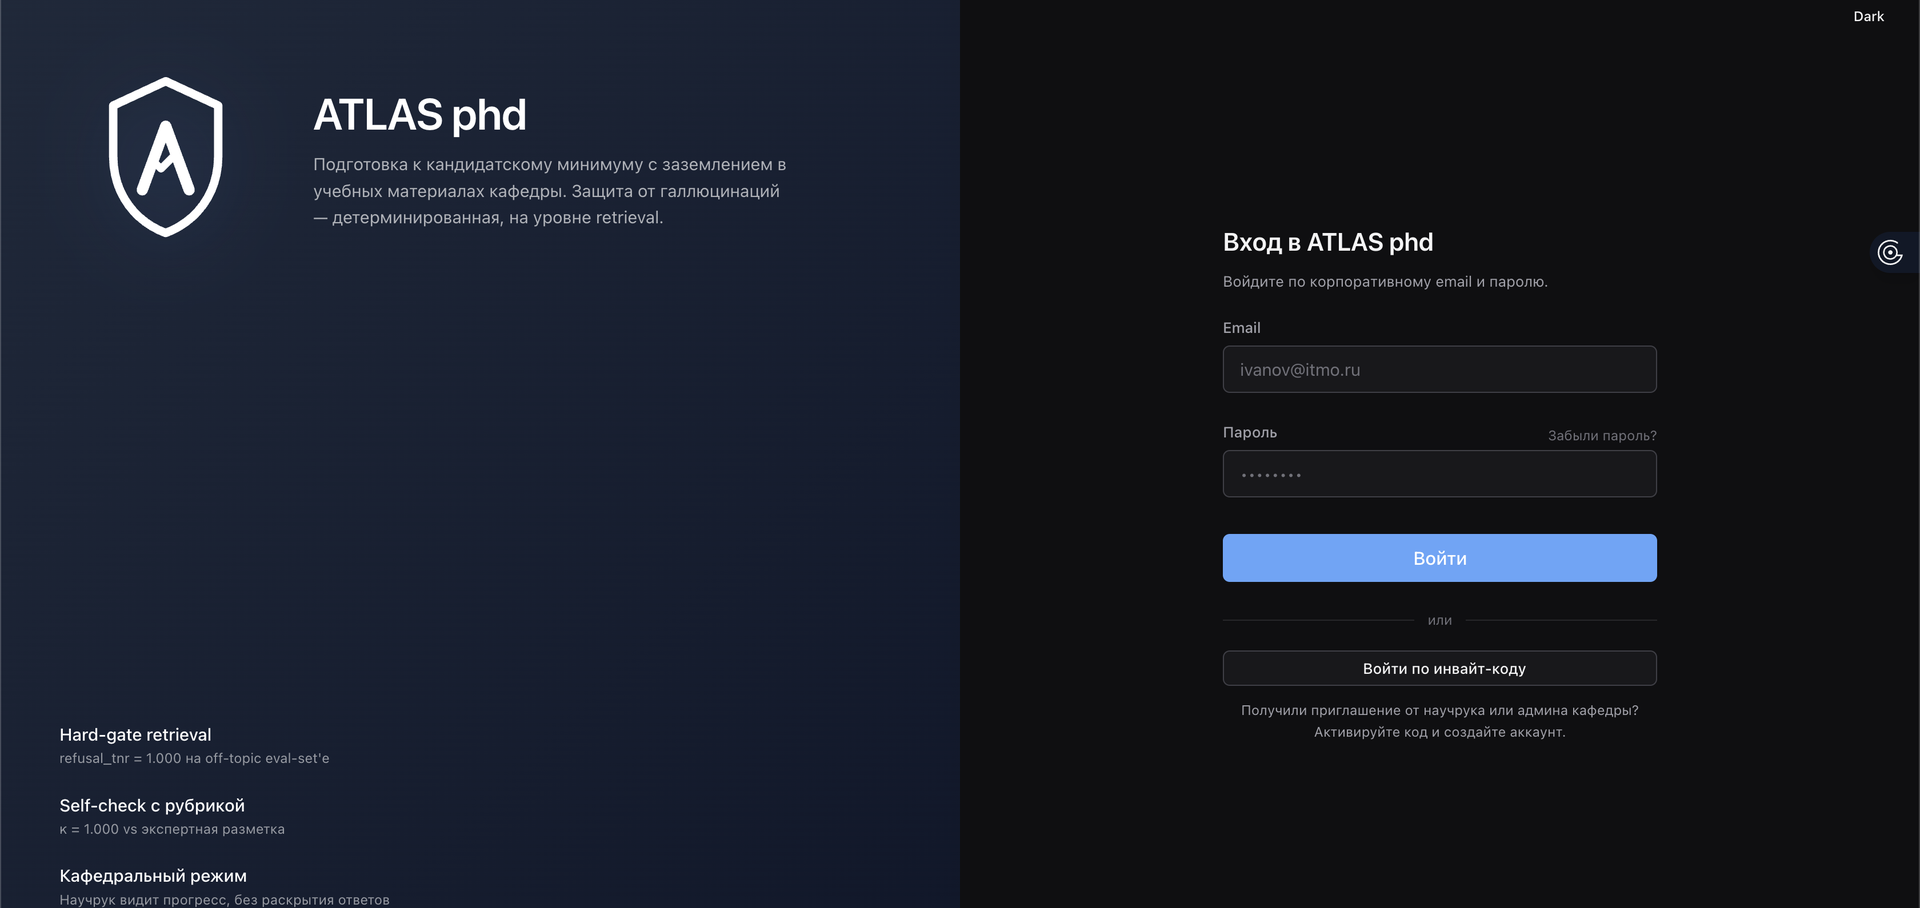
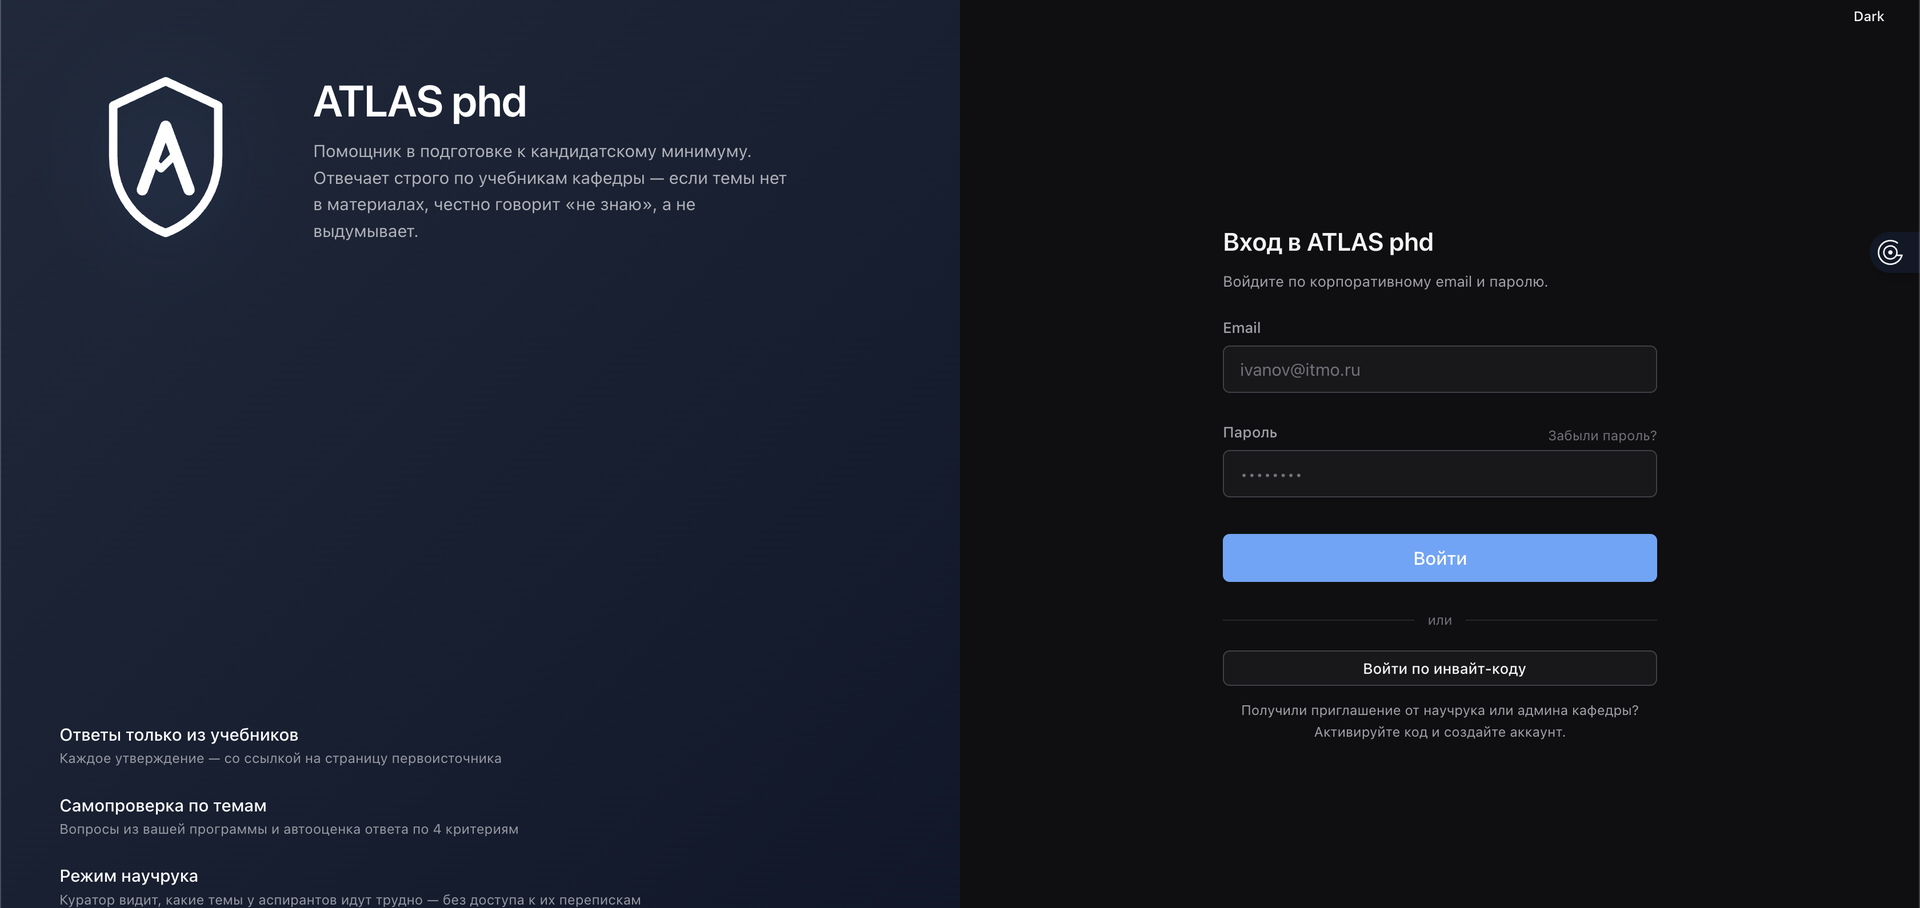
ui: human-readable текст на login + новый Шаг 3 в gallery (старт самопроверки)
Login text — убрали жаргон:
- subtitle: «Помощник в подготовке к кандидатскому минимуму. Отвечает
  строго по учебникам кафедры — если темы нет в материалах, честно
  говорит «не знаю», а не выдумывает.» (вместо «заземлением...
  на уровне retrieval»)
- bullet 1: «Ответы только из учебников / Каждое утверждение — со
  ссылкой на страницу первоисточника» (вместо «Hard-gate retrieval /
  refusal_tnr = 1.000 на off-topic eval-set'е»)
- bullet 2: «Самопроверка по темам / Вопросы из вашей программы и
  автооценка ответа по 4 критериям» (вместо «Self-check с рубрикой /
  κ = 1.000 vs экспертная разметка»)
- bullet 3: «Режим научрука / Куратор видит, какие темы у аспирантов
  идут трудно — без доступа к их перепискам» (вместо «Кафедральный
  режим / без раскрытия ответов»)

Метрики (refusal_tnr, κ) остались на eval-дашборде — там, где их и
ожидают увидеть; на login заходят и студенты, и комиссия.

Gallery (docs/design/screenshots/after/README.md):
- Шаг 3 теперь старт-экран /self-check (новый 05a-selfcheck-start.png).
- Шаг 3а — разбор ответов после теста (существующий 05-selfcheck-rubric.png).

Helper:
- selfcheck.html поддерживает ?topic=X&autostart=1 — заполняет тему
  и кликает Начать (для воспроизводимых демо-флоу). Без autostart —
  просто префиллит поле.

Changed region(s): [[0.1562, 0.0925, 0.4062, 0.2775], [0.0312, 0.8018, 0.2812, 0.9251], [0.0312, 0.9559, 0.3438, 1.0]]

diff --git a/src/atlas/templates/login.html b/src/atlas/templates/login.html
@@ -87,7 +87,7 @@
         <div class="login-page__brand-text">
           <h1 class="login-page__tagline">ATLAS phd</h1>
           <div class="login-page__sub">
-            Подготовка к кандидатскому минимуму с заземлением в учебных материалах кафедры. Защита от галлюцинаций — детерминированная, на уровне retrieval.
+            Помощник в подготовке к кандидатскому минимуму. Отвечает строго по учебникам кафедры — если темы нет в материалах, честно говорит «не знаю», а не выдумывает.
           </div>
         </div>
       </div>
@@ -97,22 +97,22 @@
       <div class="login-page__bullet">
         <i class="bi bi-shield-check" aria-hidden="true"></i>
         <div>
-          <div class="login-page__bullet-title">Hard-gate retrieval</div>
-          <div class="login-page__bullet-desc">refusal_tnr = 1.000 на off-topic eval-set'е</div>
+          <div class="login-page__bullet-title">Ответы только из учебников</div>
+          <div class="login-page__bullet-desc">Каждое утверждение — со ссылкой на страницу первоисточника</div>
         </div>
       </div>
       <div class="login-page__bullet">
         <i class="bi bi-card-checklist" aria-hidden="true"></i>
         <div>
-          <div class="login-page__bullet-title">Self-check с рубрикой</div>
-          <div class="login-page__bullet-desc">κ = 1.000 vs экспертная разметка</div>
+          <div class="login-page__bullet-title">Самопроверка по темам</div>
+          <div class="login-page__bullet-desc">Вопросы из вашей программы и автооценка ответа по 4 критериям</div>
         </div>
       </div>
       <div class="login-page__bullet">
         <i class="bi bi-people" aria-hidden="true"></i>
         <div>
-          <div class="login-page__bullet-title">Кафедральный режим</div>
-          <div class="login-page__bullet-desc">Научрук видит прогресс, без раскрытия ответов</div>
+          <div class="login-page__bullet-title">Режим научрука</div>
+          <div class="login-page__bullet-desc">Куратор видит, какие темы у аспирантов идут трудно — без доступа к их перепискам</div>
         </div>
       </div>
     </div>

diff --git a/src/atlas/templates/selfcheck.html b/src/atlas/templates/selfcheck.html
@@ -182,6 +182,23 @@ const _KATEX_OPTS = { delimiters: [{left:'$$',right:'$$',display:true}, {left:'$
 function renderMath(el) { if (typeof renderMathInElement === 'function') renderMathInElement(el, _KATEX_OPTS); }
 
 
+// ───────── Auto-start via ?topic= query (screenshot helper) ─────────
+// Если в URL есть ?topic=... — заполнить input и сразу нажать Начать.
+// Используется для воспроизводимых демо-флоу (см. screenshots/after/README).
+(function () {
+  const p = new URLSearchParams(location.search);
+  const topic = p.get('topic');
+  if (topic) {
+    const el = document.getElementById('topic-input');
+    if (el) el.value = topic;
+    if (p.get('autostart') === '1') {
+      // Дождёмся auth-bootstrap и кликнем
+      setTimeout(() => document.getElementById('start-btn')?.click(), 300);
+    }
+  }
+})();
+
+
 // ───────── Start handler ─────────
 document.getElementById('start-btn').addEventListener('click', async () => {
   const topic = document.getElementById('topic-input').value.trim();

diff --git a/docs/design/screenshots/after/README.md b/docs/design/screenshots/after/README.md
@@ -77,7 +77,25 @@
 
 ---
 
-## Шаг 3 — Self-check рубрика `/self-check/history?open=<attempt_id>`
+## Шаг 3 — Самопроверка по теме `/self-check`
+
+![selfcheck-start](05a-selfcheck-start.png)
+
+Стартовый экран самопроверки под `ivanov@optics.demo`. Студент вводит тему — система генерирует 6 вопросов (mix MC + open-ended), привязанных к учебникам кафедры, и оценивает ответы по рубрике 40/30/20/10.
+
+**Topbar:** «Кафедра оптики» + role-badge `student`.
+
+**Hero-карточка:** заголовок «Самопроверка по теме» + объяснение в одну строку + κ-бейдж справа (`κ = 1.000 vs expert`) — клик открывает eval-дашборд с источником этой цифры.
+
+**Поле «Тема»:** ровно одно текстовое поле — `placeholder` с примером темы. Селектор языка справа (RU/EN) для смешанных корпусов.
+
+**Тезис:** self-check — не «вопросы наугад из общей базы», а **сгенерированные на основе вашего корпуса**. Если темы нет в учебниках кафедры — система откажет (тот же hard-gate, что в чате).
+
+**Демо-сценарий:** «Студент вводит тему — например, «Интерференция света». Система берёт чанки из учебников кафедры, привязанные к этой теме, и просит LLM сгенерировать 6 вопросов **строго по этим чанкам**».
+
+---
+
+## Шаг 3а — Разбор ответов после теста `/self-check/history?open=<attempt_id>`
 
 ![selfcheck-rubric](05-selfcheck-rubric.png)
 
